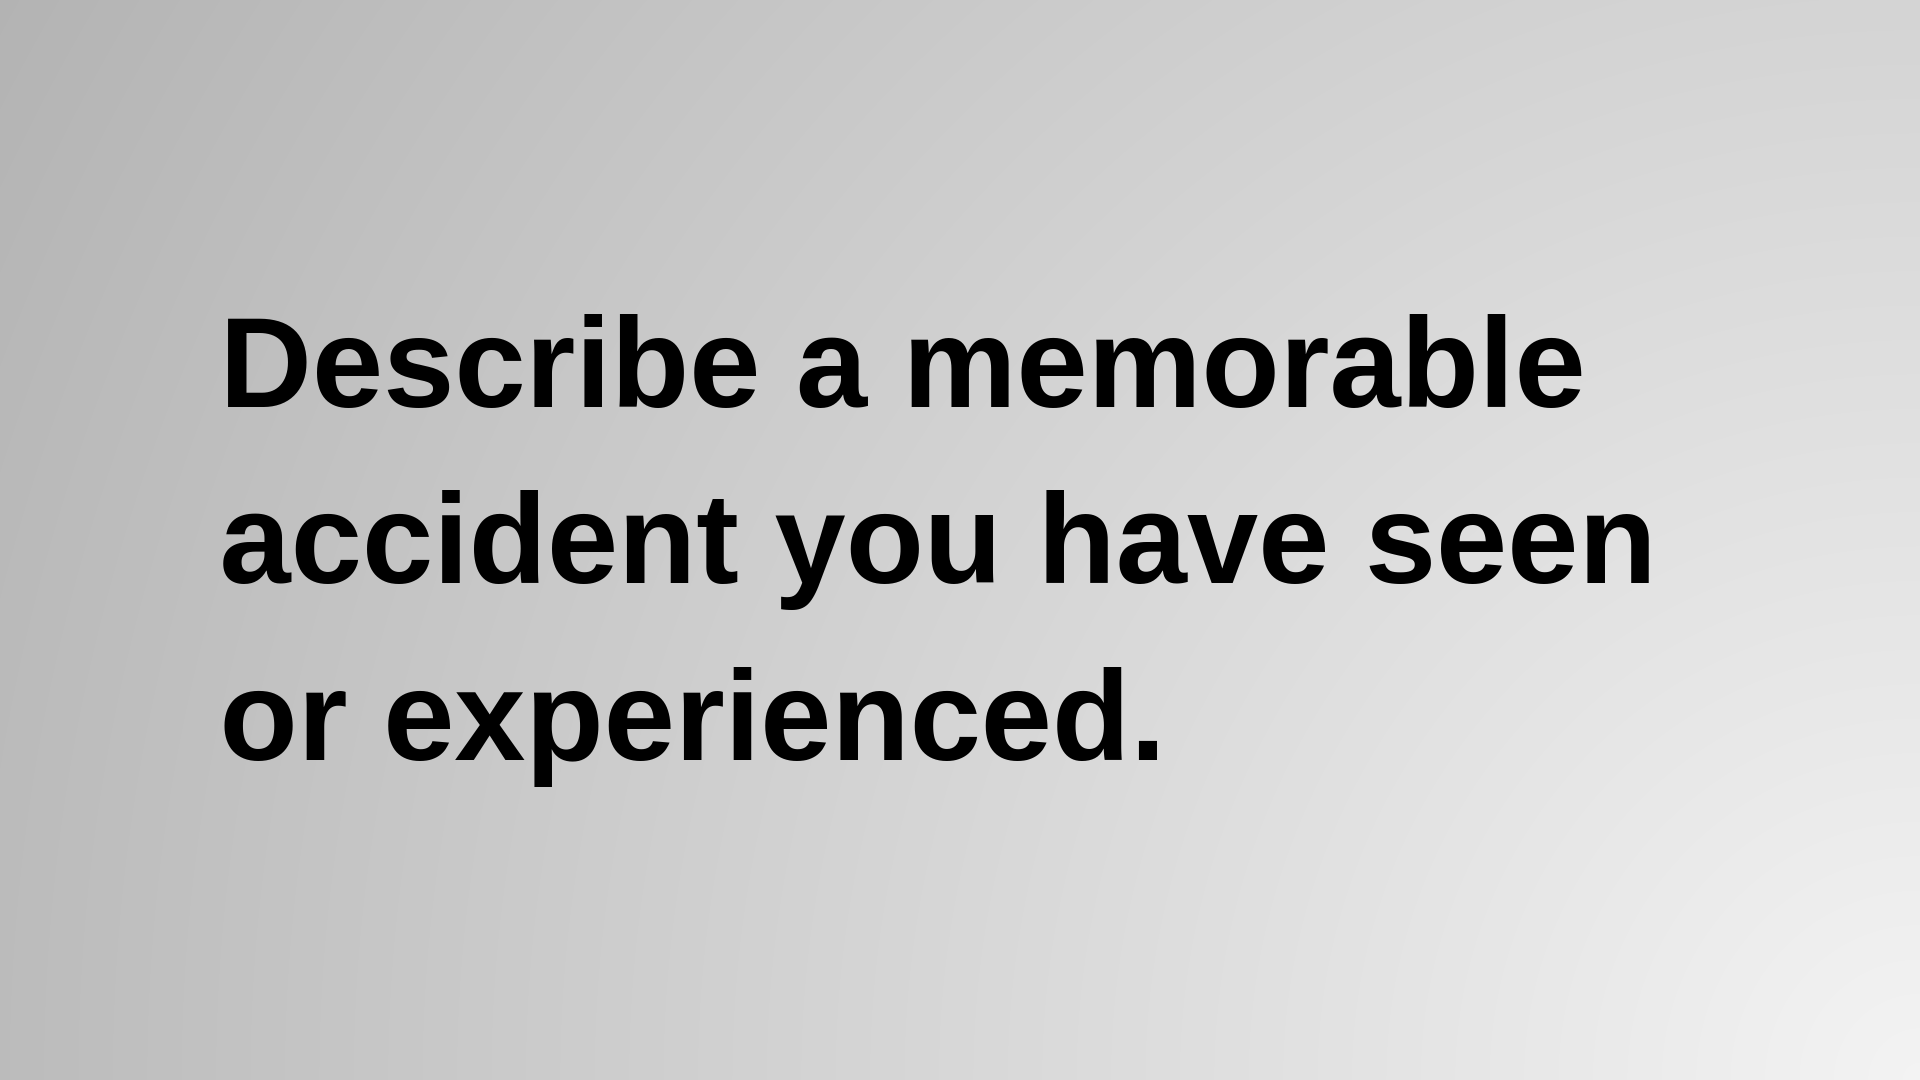
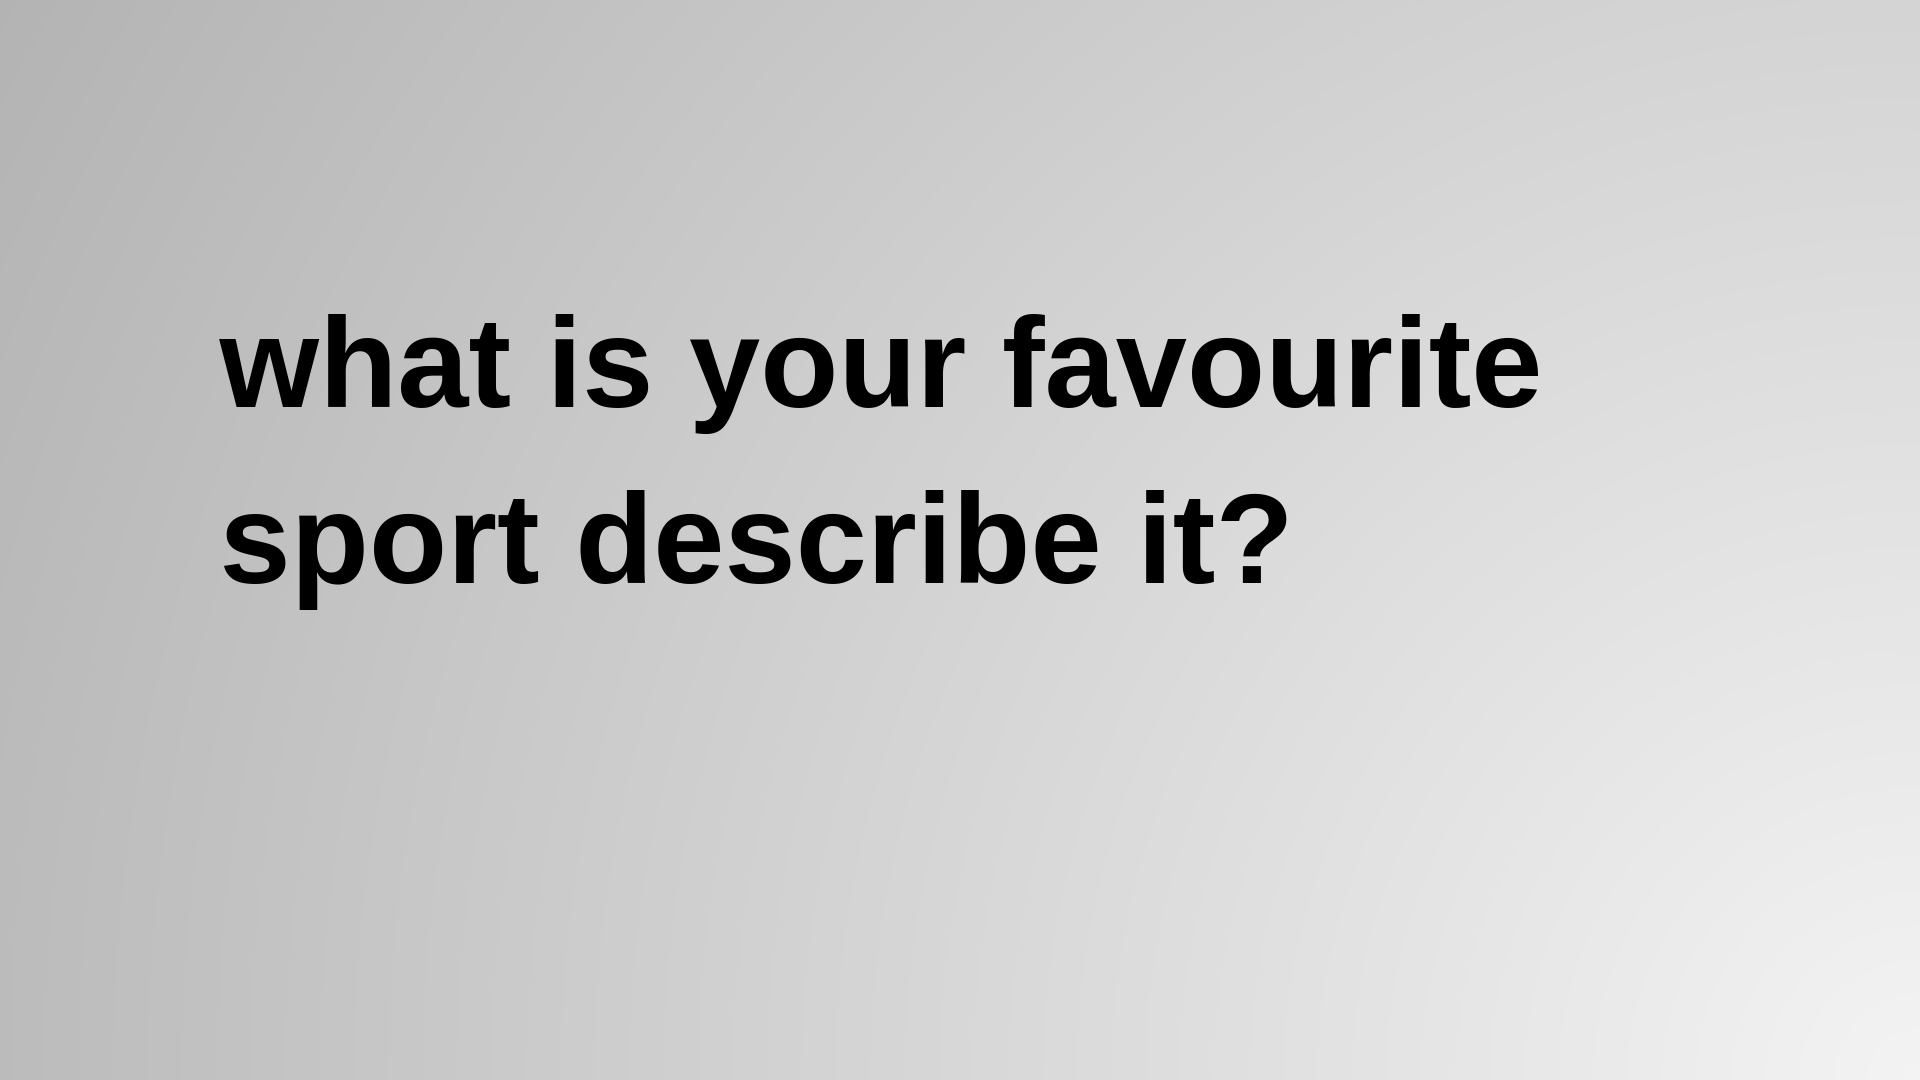
Ga el

Changed region(s): [[0.0938, 0.275, 0.8438, 0.3972], [0.0938, 0.4583, 0.875, 0.5806], [0.0938, 0.6111, 0.625, 0.7333]]

diff --git a/index.html b/index.html
@@ -36,7 +36,7 @@
   <header id="header">
     <div class="container">
 
-      <h1 style="font-size: 80px; color: black;">Accident</h1>
+      <h1 style="font-size: 80px; color: black;">Sports</h1>
       
 
       <nav id="navbar" class="navbar">
@@ -66,14 +66,14 @@
           <img src="" class="img-fluid" alt="">
         </div>
         <div class="col-lg-8 pt-4 pt-lg-0 content" data-aos="fade-left">
-          <h2 style="font-size: 60px; margin-left: 20px;"><b>Precious</b></h2>
+          <h2 style="font-size: 60px; margin-left: 20px;"><b>Unforeseen</b></h2>
           <p style="font-size: 33px; margin-left: 20px;"><b>
-            something highly valuable.          </b></p><br><br>
+            not anticipated or expected          </b></p><br><br>
 
-          <p style="font-size: 27px;margin-left: 20px;">Synonyms: valuable, Priceless, Invaluable</p><br><br>
+          <p style="font-size: 27px;margin-left: 20px;">Synonyms: unpredicted, accidental          </p><br><br>
          
           <p style="font-size: 29px;margin-left: 20px;">
-            You're so <b>precious</b> to me.          </p><br><br><br><br>
+            Accidents are usually<b> unforeseen events   </b>       </p><br><br><br><br>
         </div>
       </div>
 

diff --git a/assets/css/style.css b/assets/css/style.css
@@ -20,7 +20,7 @@ body {
 body::before {
   content: "";
   position: fixed;
-  background: transparent url("../img/Cool wallpaper.jpeg") top right no-repeat;
+  background: transparent url(https://i.pinimg.com/564x/0b/a2/b3/0ba2b33528fa198d0bf573035f4c83da.jpg) top right no-repeat;
   background-size: cover;
   left: 0;
   right: 0;
